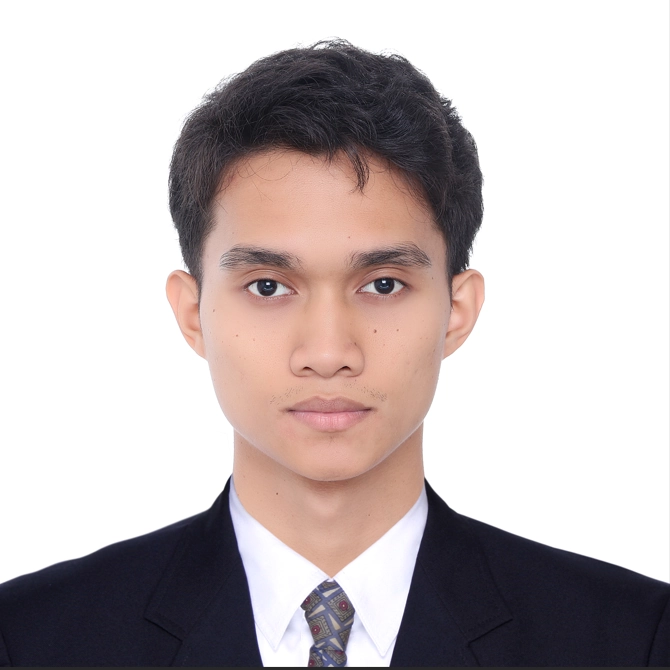
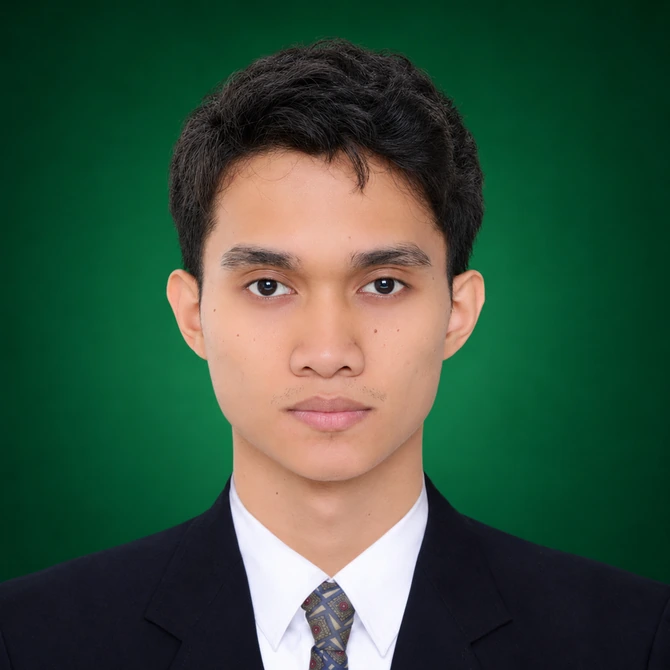
Use selected emerald-background profile photo

diff --git a/src/components/sidebar/sidebar.css b/src/components/sidebar/sidebar.css
@@ -153,8 +153,6 @@ background: var(--surface);
   border-radius: 12px;
   object-fit: cover;
   background: #fff;
-  /* Lighting correction only: use the original photograph without facial regeneration. */
-  filter: brightness(1.025) contrast(1.035);
   box-shadow: 0 0 0 4px var(--surface);
   transition: box-shadow 180ms ease, transform var(--dur-press) ease-out;
 }
